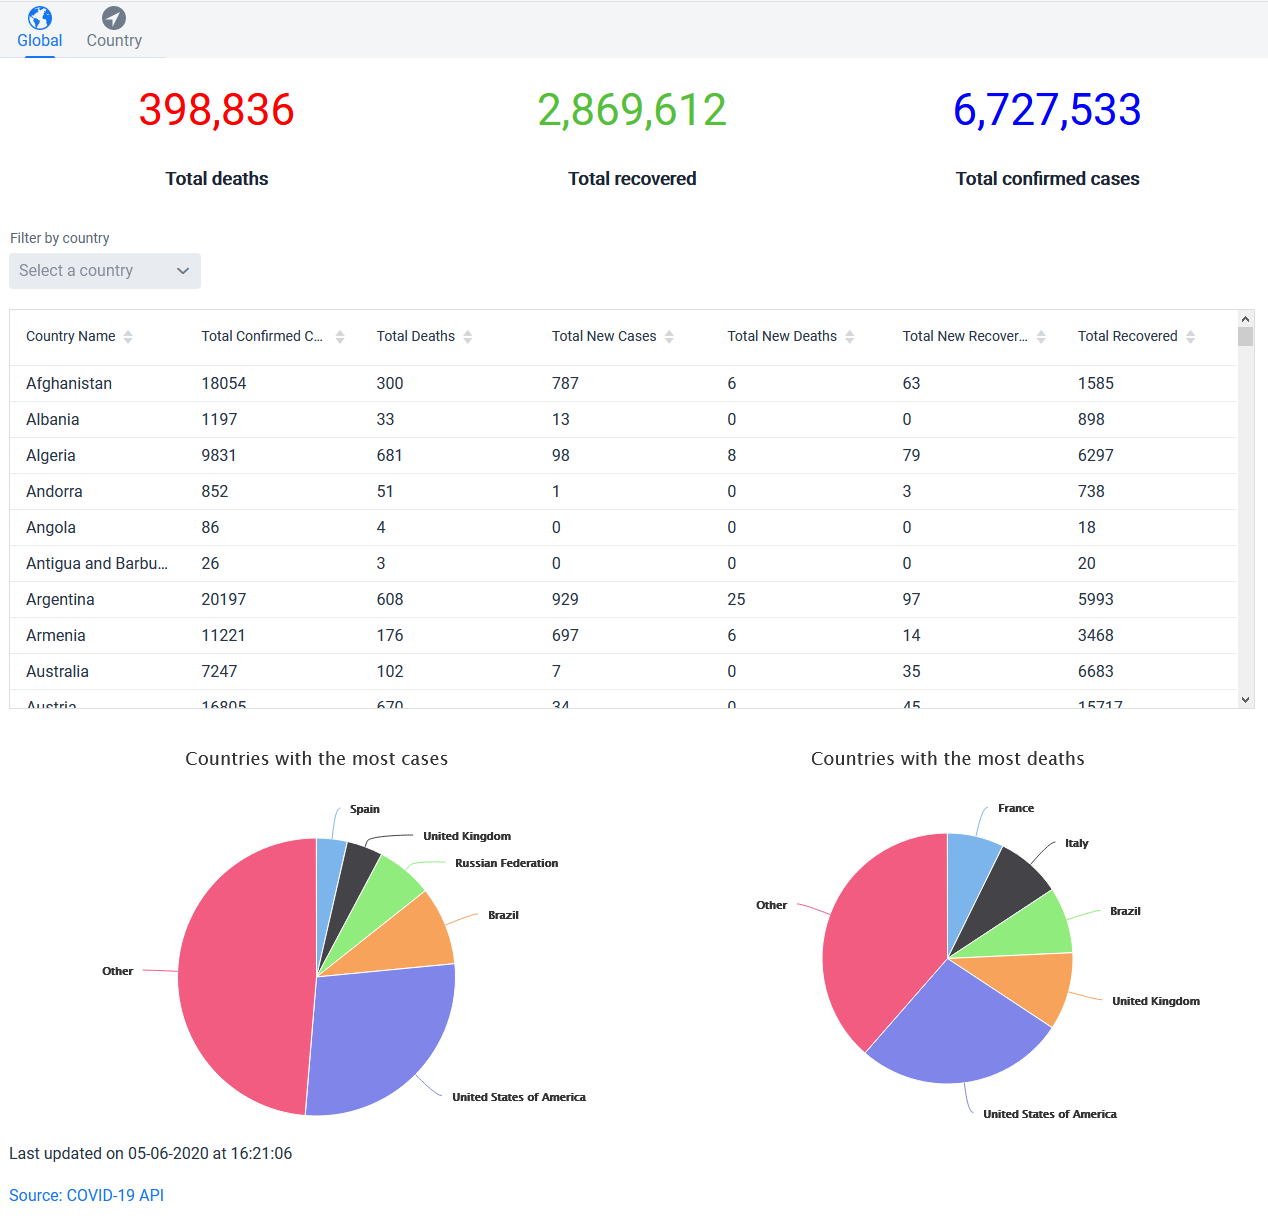
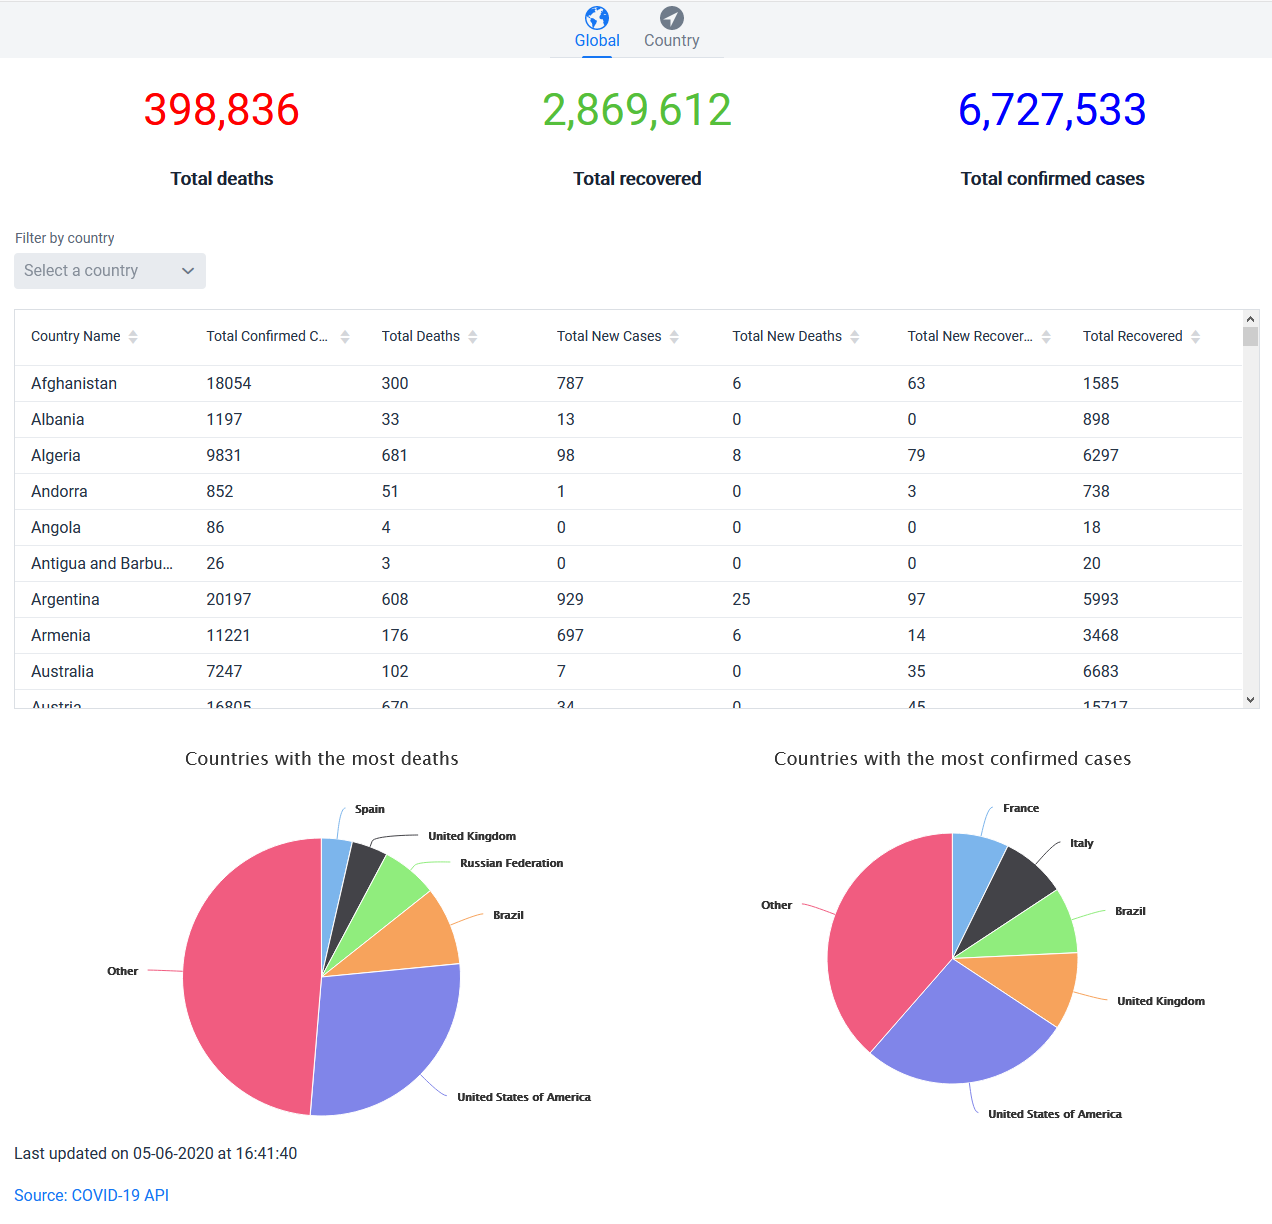
centre tabs. Closes #4

diff --git a/src/main/java/com/karankumar/covid19dashboard/ui/MainView.java b/src/main/java/com/karankumar/covid19dashboard/ui/MainView.java
@@ -7,6 +7,8 @@ import com.vaadin.flow.component.HasComponents;
 import com.vaadin.flow.component.applayout.AppLayout;
 import com.vaadin.flow.component.dependency.CssImport;
 import com.vaadin.flow.component.icon.VaadinIcon;
+import com.vaadin.flow.component.orderedlayout.FlexComponent;
+import com.vaadin.flow.component.orderedlayout.FlexLayout;
 import com.vaadin.flow.component.tabs.Tab;
 import com.vaadin.flow.component.tabs.TabVariant;
 import com.vaadin.flow.component.tabs.Tabs;
@@ -19,11 +21,19 @@ public class MainView extends AppLayout {
 
     public MainView() {
         Tabs tabs = new Tabs();
+
         Tab globalTab = createTab(VaadinIcon.GLOBE, GlobalView.class, "Global");
         Tab countryTab = createTab(VaadinIcon.LOCATION_ARROW_CIRCLE, CountryView.class, "Country");
         tabs.add(globalTab, countryTab);
         tabs.setOrientation(Tabs.Orientation.HORIZONTAL);
-        addToNavbar(true, tabs);
+
+        FlexLayout centreTabs = new FlexLayout();
+        centreTabs.setSizeFull();
+        centreTabs.setJustifyContentMode(FlexComponent.JustifyContentMode.CENTER);
+        centreTabs.setAlignItems(FlexComponent.Alignment.CENTER);
+        centreTabs.add(tabs);
+
+        addToNavbar(true, centreTabs);
     }
 
     private static Tab createTab(VaadinIcon icon, Class<? extends Component> viewClass, String title) {
